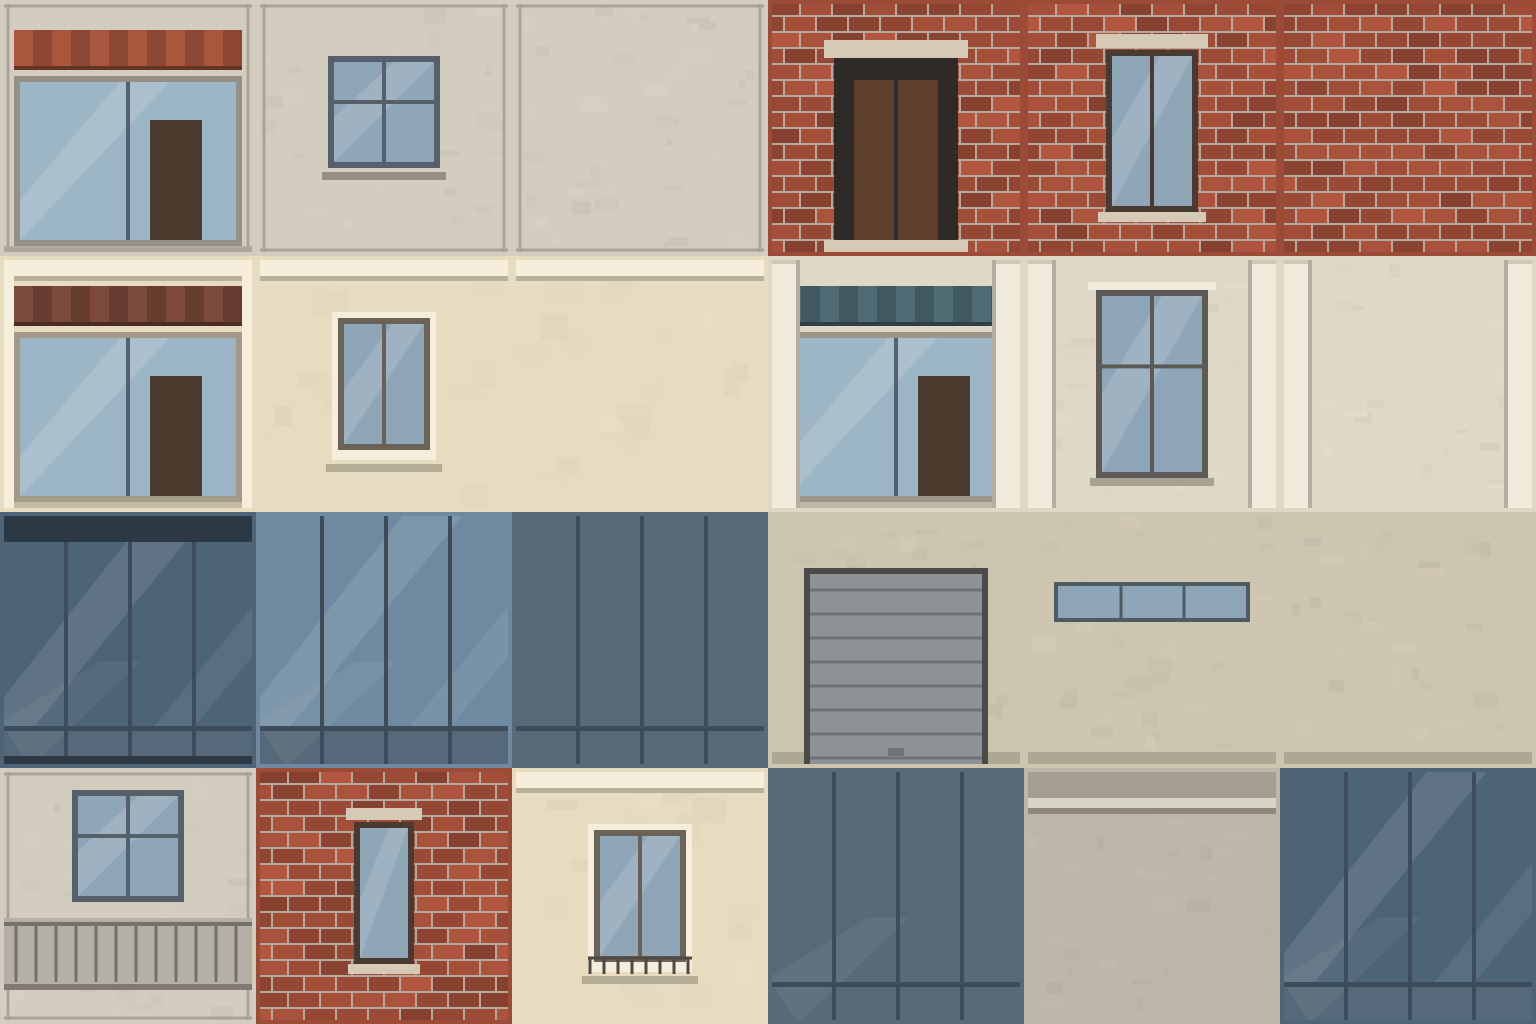
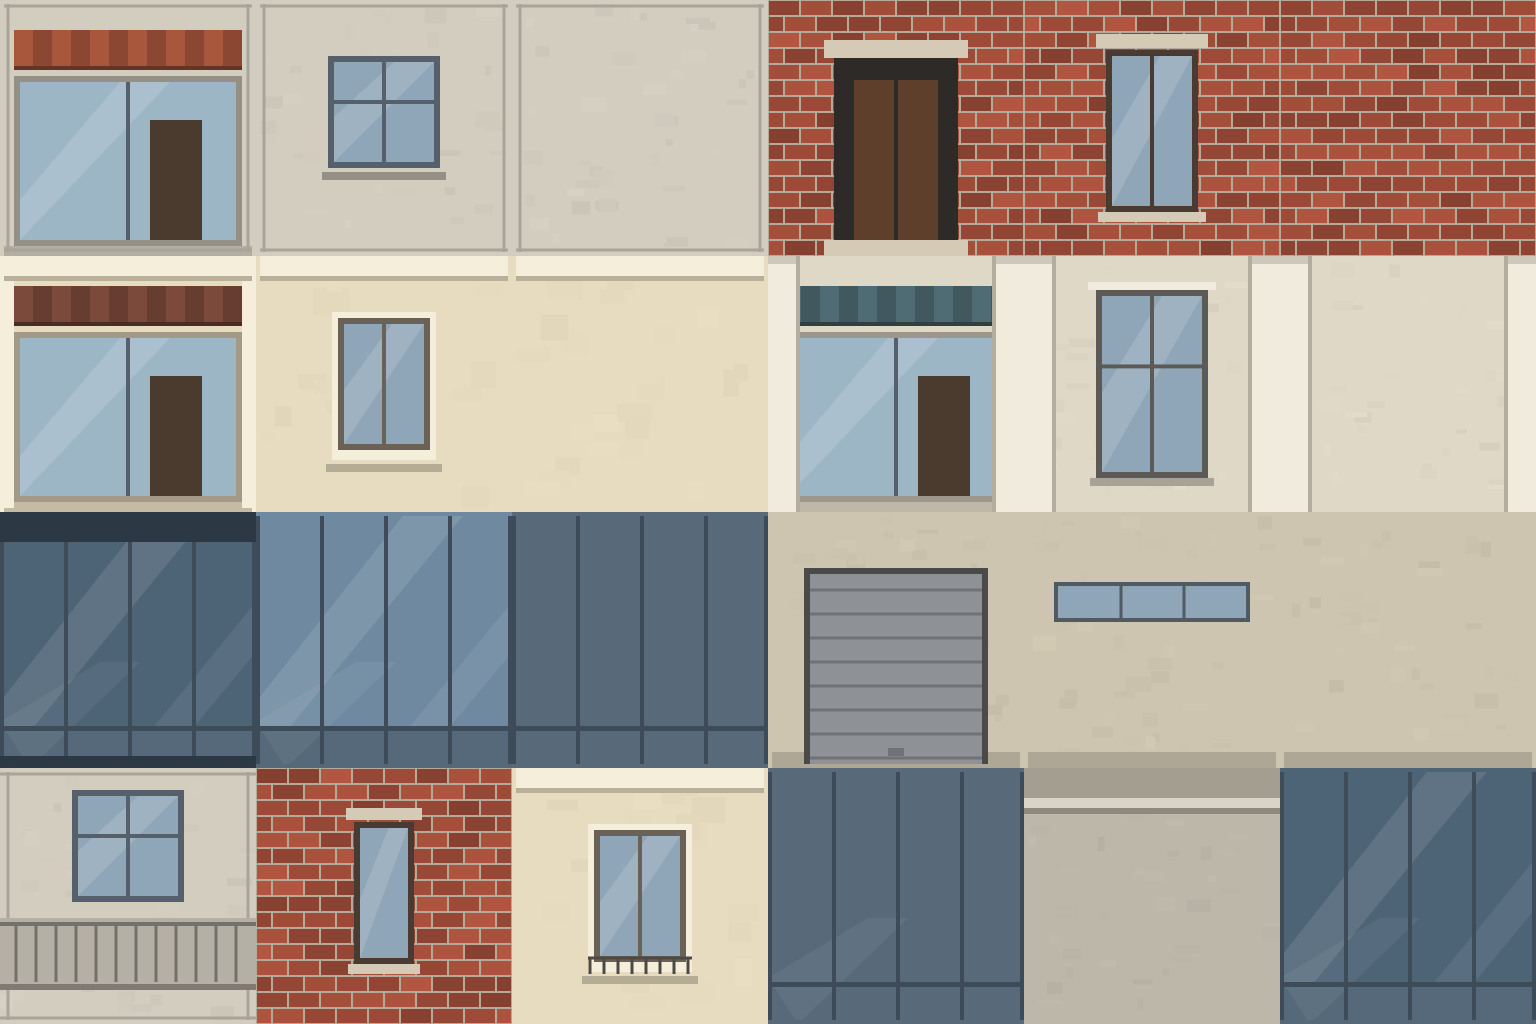
fix(world): facade variant metadata, seamless cell edges

diff --git a/src/world/facadeAtlas.ts b/src/world/facadeAtlas.ts
@@ -15,8 +15,18 @@ export const FACADE_CELL: Record<BuildingStyle, { ground: number; upper: number;
   shed: { ground: 15, upper: 16, plain: 17 },
 };
 
-/** Cells 18 to 23 are variants of the above, picked per bay so rows do not repeat. */
-export const FACADE_VARIANT = { panelBalcony: 18, brickNarrow: 19, stuccoRail: 20, towerSpandrel: 21, parapet: 22, darkGlass: 23 };
+/** Cells 18 to 23: alternates for a style's upper or plain bay, and a roof-edge strip. `bay` is the metres of wall one cell covers. */
+export type VariantUse = 'upper' | 'plain' | 'parapet';
+export interface FacadeVariant { cell: number; style: BuildingStyle | 'any'; bay: number; use: VariantUse }
+
+export const FACADE_VARIANT: Record<'panelBalcony' | 'brickNarrow' | 'stuccoRail' | 'towerSpandrel' | 'parapet' | 'darkGlass', FacadeVariant> = {
+  panelBalcony: { cell: 18, style: 'panel', bay: 3.0, use: 'upper' },
+  brickNarrow: { cell: 19, style: 'brick', bay: 2.4, use: 'upper' },
+  stuccoRail: { cell: 20, style: 'stucco', bay: 3.6, use: 'upper' },
+  towerSpandrel: { cell: 21, style: 'tower', bay: 3.0, use: 'plain' },
+  parapet: { cell: 22, style: 'any', bay: 3.0, use: 'parapet' },
+  darkGlass: { cell: 23, style: 'tower', bay: 3.0, use: 'plain' },
+};
 
 export const BAY_WIDTH: Record<BuildingStyle, number> = { panel: 3.0, brick: 3.4, stucco: 3.6, public: 4.2, tower: 3.0, shed: 6.0 };
 
@@ -50,6 +60,9 @@ function shade(color: number, f: number): number {
   const c = (s: number) => Math.max(0, Math.min(255, Math.round(((color >> s) & 255) * f)));
   return (c(16) << 16) | (c(8) << 8) | c(0);
 }
+
+/** Edge colour per side; a side left out already has its real content at the edge. */
+interface Edges { top?: number; bottom?: number; left?: number; right?: number }
 
 /** Draws in 256-unit cell coordinates, scaled to the real cell size and offset to the cell. */
 class Cell {
@@ -95,18 +108,36 @@ class Cell {
     if (bars === 'cross') this.line(frame, x, y + h * 0.4, x + w, y + h * 0.4, 4);
   }
 
-  /** Keeps the outer texels the wall colour so mip levels blend into the wall, not the neighbouring cell. */
-  border(color: number): void {
+  /** Paints each side's border in the colour the draw function reports for that edge, so mips do not pull in a neighbour. */
+  border(e: Edges): void {
     const b = BORDER_PX;
-    this.fill(color, 0, 0, 256, b);
-    this.fill(color, 0, 256 - b, 256, b);
-    this.fill(color, 0, 0, b, 256);
-    this.fill(color, 256 - b, 0, b, 256);
+    if (e.top !== undefined) this.fill(e.top, 0, 0, 256, b);
+    if (e.bottom !== undefined) this.fill(e.bottom, 0, 256 - b, 256, b);
+    if (e.left !== undefined) this.fill(e.left, 0, 0, b, 256);
+    if (e.right !== undefined) this.fill(e.right, 256 - b, 0, b, 256);
   }
 }
 
 const GLASS = 0x8fa6b8;
 const DARK_FRAME = 0x55606b;
+
+const PANEL_WALL = 0xd3cdc0;
+const BRICK_RED = 0x9c4b37;
+const BRICK_MORTAR = 0xb7a99a;
+const BRICK_STONE = 0xd4cab6;
+const STUCCO_WALL = 0xe8dcc0;
+const STUCCO_TRIM = 0xf5eedb;
+const PUBLIC_WALL = 0xe0d8c6;
+const PUBLIC_PILASTER = 0xf0ebdd;
+const SHED_WALL = 0xcec5b0;
+const TOWER_GLASS = 0x6f8aa0;
+const TOWER_GLASS_DARK = 0x4d6376;
+const TOWER_SPANDREL = 0x56697a;
+const TOWER_PLAIN = 0x58697a;
+const TOWER_BAND = 0x2c3944;
+const PARAPET_WALL = 0xbdb7aa;
+const PARAPET_CAP = 0xa49e91;
+const PLINTH = 0.85;
 
 function awning(c: Cell, color: number, y = 30, h = 36): void {
   c.fill(color, 14, y, 228, h);
@@ -122,7 +153,7 @@ function shopFront(c: Cell, wall: number, awningColor: number): void {
   c.poly(0xffffff, [[20, 200], [120, 82], [170, 82], [20, 240]], 0.14);
   c.line(DARK_FRAME, 128, 82, 128, 240, 4);
   c.fill(0x4b3a2e, 150, 120, 52, 120);
-  c.fill(shade(wall, 0.85), 0, 246, 256, 10);
+  c.fill(shade(wall, PLINTH), 0, 246, 256, 10);
 }
 
 function concrete(c: Cell, base: number, rand: () => number): void {
@@ -140,32 +171,26 @@ function panelSeams(c: Cell, base: number): void {
   c.line(seam, 0, 250, 256, 250, 3);
 }
 
-function panel(c: Cell, kind: 'ground' | 'upper' | 'plain' | 'balcony', rand: () => number): void {
-  const base = 0xd3cdc0;
-  if (kind === 'ground') {
-    concrete(c, base, rand);
-    shopFront(c, base, 0xa9573c);
-    panelSeams(c, base);
-    return;
-  }
+function panel(c: Cell, kind: 'ground' | 'upper' | 'plain' | 'balcony', rand: () => number): Edges {
+  const base = PANEL_WALL;
   concrete(c, base, rand);
+  if (kind === 'ground') shopFront(c, base, 0xa9573c);
   panelSeams(c, base);
-  if (kind === 'plain') return;
   if (kind === 'balcony') {
     c.fill(shade(base, 0.86), 0, 150, 256, 70);
     c.fill(shade(base, 0.6), 0, 216, 256, 6);
     for (let x = 16; x < 250; x += 20) c.line(shade(base, 0.55), x, 156, x, 214, 3);
     c.line(shade(base, 0.55), 0, 156, 256, 156, 4);
     c.window(78, 28, 100, 100, DARK_FRAME, GLASS, 'cross');
-    return;
+  } else if (kind === 'upper') {
+    c.window(78, 62, 100, 100, DARK_FRAME, GLASS, 'cross');
+    c.fill(shade(base, 0.7), 66, 172, 124, 8);
   }
-  c.window(78, 62, 100, 100, DARK_FRAME, GLASS, 'cross');
-  c.fill(shade(base, 0.7), 66, 172, 124, 8);
+  return { top: base, bottom: kind === 'ground' ? shade(base, PLINTH) : base, left: base, right: base };
 }
 
-function brick(c: Cell, kind: 'ground' | 'upper' | 'plain' | 'narrow', rand: () => number): void {
-  const mortar = 0xb7a99a;
-  c.fill(mortar, 0, 0, 256, 256);
+function brick(c: Cell, kind: 'ground' | 'upper' | 'plain' | 'narrow', rand: () => number): Edges {
+  c.fill(BRICK_MORTAR, 0, 0, 256, 256);
   const bw = 32;
   const bh = 16;
   for (let row = 0; row < 256 / bh; row++) {
@@ -173,10 +198,10 @@ function brick(c: Cell, kind: 'ground' | 'upper' | 'plain' | 'narrow', rand: () 
     for (let x = -off; x < 256; x += bw) {
       const x0 = Math.max(0, x);
       const x1 = Math.min(256, x + bw);
-      c.fill(shade(0x9c4b37, 0.85 + rand() * 0.3), x0 + 1, row * bh + 1, x1 - x0 - 2, bh - 2);
+      c.fill(shade(BRICK_RED, 0.85 + rand() * 0.3), x0 + 1, row * bh + 1, x1 - x0 - 2, bh - 2);
     }
   }
-  const stone = 0xd4cab6;
+  const stone = BRICK_STONE;
   if (kind === 'upper') {
     c.fill(stone, 72, 34, 112, 14);
     c.window(88, 56, 80, 150, 0x4a3b32, GLASS, 'mid');
@@ -192,23 +217,22 @@ function brick(c: Cell, kind: 'ground' | 'upper' | 'plain' | 'narrow', rand: () 
     c.line(0x2e2a28, 128, 80, 128, 256, 4);
     c.fill(stone, 56, 240, 144, 16);
   }
+  // The brick courses run to the cell edge and tile as they are.
+  return {};
 }
 
-function stucco(c: Cell, kind: 'ground' | 'upper' | 'plain' | 'rail', rand: () => number): void {
-  const cream = 0xe8dcc0;
+function stucco(c: Cell, kind: 'ground' | 'upper' | 'plain' | 'rail', rand: () => number): Edges {
+  const cream = STUCCO_WALL;
   c.fill(cream, 0, 0, 256, 256);
   for (let i = 0; i < 24; i++) c.fill(shade(cream, 0.97 + rand() * 0.04), rand() * 230, rand() * 230, 14 + rand() * 24, 10 + rand() * 18);
-  const trim = 0xf5eedb;
-  c.fill(trim, 0, 0, 256, 20);
-  c.fill(shade(cream, 0.8), 0, 20, 256, 5);
+  const trim = STUCCO_TRIM;
   if (kind === 'ground') {
     shopFront(c, cream, 0x7c4a3a);
-    c.fill(trim, 0, 0, 256, 20);
-    c.fill(shade(cream, 0.8), 0, 20, 256, 5);
     c.fill(trim, 0, 0, 14, 256);
     c.fill(trim, 242, 0, 14, 256);
-    return;
   }
+  c.fill(trim, 0, 0, 256, 20);
+  c.fill(shade(cream, 0.8), 0, 20, 256, 5);
   if (kind === 'upper' || kind === 'rail') {
     c.fill(trim, 76, 56, 104, 148);
     c.window(88, 68, 80, 120, 0x6b6257, GLASS, 'mid');
@@ -218,10 +242,12 @@ function stucco(c: Cell, kind: 'ground' | 'upper' | 'plain' | 'rail', rand: () =
       c.line(0x4d4a46, 76, 190, 180, 190, 3);
     }
   }
+  const ground = kind === 'ground';
+  return { top: trim, bottom: ground ? shade(cream, PLINTH) : cream, left: ground ? trim : cream, right: ground ? trim : cream };
 }
 
 function pilasters(c: Cell, wall: number): void {
-  const light = 0xf0ebdd;
+  const light = PUBLIC_PILASTER;
   for (const x of [0, 228]) {
     c.fill(light, x, 0, 28, 256);
     c.fill(shade(wall, 0.8), x === 0 ? 28 : 228 - 4, 0, 4, 256);
@@ -229,39 +255,45 @@ function pilasters(c: Cell, wall: number): void {
   }
 }
 
-function publicBay(c: Cell, kind: 'ground' | 'upper' | 'plain', rand: () => number): void {
-  const wall = 0xe0d8c6;
+function publicBay(c: Cell, kind: 'ground' | 'upper' | 'plain', rand: () => number): Edges {
+  const wall = PUBLIC_WALL;
   concrete(c, wall, rand);
   if (kind === 'ground') {
     shopFront(c, wall, 0x4f6b73);
   } else if (kind === 'upper') {
     c.window(78, 40, 100, 176, 0x5b5a56, GLASS, 'cross');
-    c.fill(0xf0ebdd, 64, 26, 128, 8);
+    c.fill(PUBLIC_PILASTER, 64, 26, 128, 8);
     c.fill(shade(wall, 0.75), 66, 222, 124, 8);
   }
   pilasters(c, wall);
+  // Pilasters fill both side edges and the cell is the same left to right at top and bottom, so nothing needs a border.
+  return {};
 }
 
-function tower(c: Cell, kind: 'ground' | 'upper' | 'plain' | 'spandrel' | 'dark'): void {
-  const glass = kind === 'dark' || kind === 'ground' ? 0x4d6376 : 0x6f8aa0;
+function tower(c: Cell, kind: 'ground' | 'upper' | 'plain' | 'spandrel' | 'dark'): Edges {
+  const glass = kind === 'dark' || kind === 'ground' ? TOWER_GLASS_DARK : TOWER_GLASS;
+  const solid = kind === 'plain' || kind === 'spandrel';
   c.fill(glass, 0, 0, 256, 256);
   c.poly(0xffffff, [[0, 190], [150, 0], [210, 0], [0, 256]], 0.1);
   c.poly(0xffffff, [[120, 256], [256, 90], [256, 140], [160, 256]], 0.07);
-  if (kind === 'plain' || kind === 'spandrel') c.fill(0x58697a, 0, 0, 256, 256);
-  else c.fill(0x56697a, 0, 218, 256, 38);
+  if (solid) c.fill(TOWER_PLAIN, 0, 0, 256, 256);
+  else c.fill(TOWER_SPANDREL, 0, 218, 256, 38);
   if (kind !== 'plain') c.poly(0xffffff, [[0, 210], [100, 150], [140, 150], [30, 256]], 0.05);
   for (const x of [0, 64, 128, 192, 252]) c.fill(0x3e4c59, x, 0, 4, 256);
   c.fill(0x3e4c59, 0, 214, 256, 5);
   if (kind === 'ground') {
-    c.fill(0x2c3944, 0, 0, 256, 30);
-    c.fill(0x2c3944, 0, 244, 256, 12);
+    c.fill(TOWER_BAND, 0, 0, 256, 30);
+    c.fill(TOWER_BAND, 0, 244, 256, 12);
   }
+  // Mullions stand on both side edges, so only the top and bottom get a border.
+  if (kind === 'ground') return { top: TOWER_BAND, bottom: TOWER_BAND };
+  return { top: solid ? TOWER_PLAIN : glass, bottom: solid ? TOWER_PLAIN : TOWER_SPANDREL };
 }
 
-function shed(c: Cell, kind: 'ground' | 'upper' | 'plain', rand: () => number): void {
-  const wall = 0xcec5b0;
+function shed(c: Cell, kind: 'ground' | 'upper' | 'plain', rand: () => number): Edges {
+  const wall = SHED_WALL;
   concrete(c, wall, rand);
-  c.fill(shade(wall, 0.85), 0, 240, 256, 16);
+  c.fill(shade(wall, PLINTH), 0, 240, 256, 16);
   if (kind === 'upper') {
     c.fill(0x4f5a62, 30, 70, 196, 40);
     c.fill(GLASS, 34, 74, 188, 32);
@@ -272,49 +304,52 @@ function shed(c: Cell, kind: 'ground' | 'upper' | 'plain', rand: () => number): 
     for (let y = 78; y < 256; y += 24) c.line(0x6f7377, 42, y, 214, y, 3);
     c.fill(0x6f7377, 120, 236, 16, 8);
   }
+  return { top: wall, bottom: shade(wall, PLINTH), left: wall, right: wall };
 }
 
-function parapet(c: Cell, rand: () => number): void {
-  concrete(c, 0xbdb7aa, rand);
-  c.fill(0xa49e91, 0, 0, 256, 30);
+function parapet(c: Cell, rand: () => number): Edges {
+  concrete(c, PARAPET_WALL, rand);
+  c.fill(PARAPET_CAP, 0, 0, 256, 30);
   c.fill(0xd9d4c8, 0, 30, 256, 10);
   c.fill(0x8f897d, 0, 40, 256, 6);
+  // Every row is a single colour across the cell, so the side edges already match.
+  return { top: PARAPET_CAP, bottom: PARAPET_WALL };
 }
 
 /** Draws every atlas cell (6 by 4); no text or logos anywhere. */
 export function drawFacadeAtlas(g: CanvasRenderingContext2D, cellPx: number, seed: number): void {
   const rand = rng(seed);
   const k = cellPx / CELL_PX;
-  const draws: Array<[number, number, (c: Cell) => void]> = [
-    [FACADE_CELL.panel.ground, 0xd3cdc0, c => panel(c, 'ground', rand)],
-    [FACADE_CELL.panel.upper, 0xd3cdc0, c => panel(c, 'upper', rand)],
-    [FACADE_CELL.panel.plain, 0xd3cdc0, c => panel(c, 'plain', rand)],
-    [FACADE_CELL.brick.ground, 0x9c4b37, c => brick(c, 'ground', rand)],
-    [FACADE_CELL.brick.upper, 0x9c4b37, c => brick(c, 'upper', rand)],
-    [FACADE_CELL.brick.plain, 0x9c4b37, c => brick(c, 'plain', rand)],
-    [FACADE_CELL.stucco.ground, 0xe8dcc0, c => stucco(c, 'ground', rand)],
-    [FACADE_CELL.stucco.upper, 0xe8dcc0, c => stucco(c, 'upper', rand)],
-    [FACADE_CELL.stucco.plain, 0xe8dcc0, c => stucco(c, 'plain', rand)],
-    [FACADE_CELL.public.ground, 0xe0d8c6, c => publicBay(c, 'ground', rand)],
-    [FACADE_CELL.public.upper, 0xe0d8c6, c => publicBay(c, 'upper', rand)],
-    [FACADE_CELL.public.plain, 0xe0d8c6, c => publicBay(c, 'plain', rand)],
-    [FACADE_CELL.tower.ground, 0x4d6376, c => tower(c, 'ground')],
-    [FACADE_CELL.tower.upper, 0x6f8aa0, c => tower(c, 'upper')],
-    [FACADE_CELL.tower.plain, 0x58697a, c => tower(c, 'plain')],
-    [FACADE_CELL.shed.ground, 0xcec5b0, c => shed(c, 'ground', rand)],
-    [FACADE_CELL.shed.upper, 0xcec5b0, c => shed(c, 'upper', rand)],
-    [FACADE_CELL.shed.plain, 0xcec5b0, c => shed(c, 'plain', rand)],
-    [FACADE_VARIANT.panelBalcony, 0xd3cdc0, c => panel(c, 'balcony', rand)],
-    [FACADE_VARIANT.brickNarrow, 0x9c4b37, c => brick(c, 'narrow', rand)],
-    [FACADE_VARIANT.stuccoRail, 0xe8dcc0, c => stucco(c, 'rail', rand)],
-    [FACADE_VARIANT.towerSpandrel, 0x58697a, c => tower(c, 'spandrel')],
-    [FACADE_VARIANT.parapet, 0xbdb7aa, c => parapet(c, rand)],
-    [FACADE_VARIANT.darkGlass, 0x4d6376, c => tower(c, 'dark')],
+  const V = FACADE_VARIANT;
+  const draws: Array<[number, (c: Cell) => Edges]> = [
+    [FACADE_CELL.panel.ground, c => panel(c, 'ground', rand)],
+    [FACADE_CELL.panel.upper, c => panel(c, 'upper', rand)],
+    [FACADE_CELL.panel.plain, c => panel(c, 'plain', rand)],
+    [FACADE_CELL.brick.ground, c => brick(c, 'ground', rand)],
+    [FACADE_CELL.brick.upper, c => brick(c, 'upper', rand)],
+    [FACADE_CELL.brick.plain, c => brick(c, 'plain', rand)],
+    [FACADE_CELL.stucco.ground, c => stucco(c, 'ground', rand)],
+    [FACADE_CELL.stucco.upper, c => stucco(c, 'upper', rand)],
+    [FACADE_CELL.stucco.plain, c => stucco(c, 'plain', rand)],
+    [FACADE_CELL.public.ground, c => publicBay(c, 'ground', rand)],
+    [FACADE_CELL.public.upper, c => publicBay(c, 'upper', rand)],
+    [FACADE_CELL.public.plain, c => publicBay(c, 'plain', rand)],
+    [FACADE_CELL.tower.ground, c => tower(c, 'ground')],
+    [FACADE_CELL.tower.upper, c => tower(c, 'upper')],
+    [FACADE_CELL.tower.plain, c => tower(c, 'plain')],
+    [FACADE_CELL.shed.ground, c => shed(c, 'ground', rand)],
+    [FACADE_CELL.shed.upper, c => shed(c, 'upper', rand)],
+    [FACADE_CELL.shed.plain, c => shed(c, 'plain', rand)],
+    [V.panelBalcony.cell, c => ({ ...panel(c, 'balcony', rand), left: undefined, right: undefined })],
+    [V.brickNarrow.cell, c => brick(c, 'narrow', rand)],
+    [V.stuccoRail.cell, c => stucco(c, 'rail', rand)],
+    [V.towerSpandrel.cell, c => tower(c, 'spandrel')],
+    [V.parapet.cell, c => parapet(c, rand)],
+    [V.darkGlass.cell, c => tower(c, 'dark')],
   ];
-  for (const [index, edge, draw] of draws) {
+  for (const [index, draw] of draws) {
     const cell = new Cell(g, (index % ATLAS_COLS) * cellPx, Math.floor(index / ATLAS_COLS) * cellPx, k);
-    draw(cell);
-    cell.border(edge);
+    cell.border(draw(cell));
   }
 }
 

diff --git a/src/world/facadeAtlas.test.ts b/src/world/facadeAtlas.test.ts
@@ -1,6 +1,6 @@
 import { describe, expect, it } from 'vitest';
 import type { BuildingStyle } from '../shared/district';
-import { ATLAS_COLS, ATLAS_ROWS, BAY_WIDTH, cellRect, drawFacadeAtlas, FACADE_CELL } from './facadeAtlas';
+import { ATLAS_COLS, ATLAS_ROWS, BAY_WIDTH, cellRect, drawFacadeAtlas, FACADE_CELL, FACADE_VARIANT } from './facadeAtlas';
 
 const STYLES: BuildingStyle[] = ['panel', 'brick', 'stucco', 'public', 'tower', 'shed'];
 const CELL_PX = 256;
@@ -9,13 +9,22 @@ const H = ATLAS_ROWS * CELL_PX;
 
 describe('facade atlas layout', () => {
   it('has a unique in-range cell for every style slot', () => {
-    const all = STYLES.flatMap(s => [FACADE_CELL[s].ground, FACADE_CELL[s].upper, FACADE_CELL[s].plain]);
+    const all = [...STYLES.flatMap(s => [FACADE_CELL[s].ground, FACADE_CELL[s].upper, FACADE_CELL[s].plain]), ...Object.values(FACADE_VARIANT).map(v => v.cell)];
     expect(new Set(all).size).toBe(all.length);
     for (const i of all) {
       expect(Number.isInteger(i)).toBe(true);
       expect(i).toBeGreaterThanOrEqual(0);
       expect(i).toBeLessThan(ATLAS_COLS * ATLAS_ROWS);
     }
+  });
+
+  it('gives every variant a style, bay width and use', () => {
+    for (const v of Object.values(FACADE_VARIANT)) {
+      expect(v.bay).toBeGreaterThan(0);
+      expect(['upper', 'plain', 'parapet']).toContain(v.use);
+      if (v.style !== 'any') expect(STYLES).toContain(v.style);
+    }
+    expect(FACADE_VARIANT.panelBalcony.bay).toBe(BAY_WIDTH.panel);
   });
 
   it('uses the agreed bay widths', () => {
